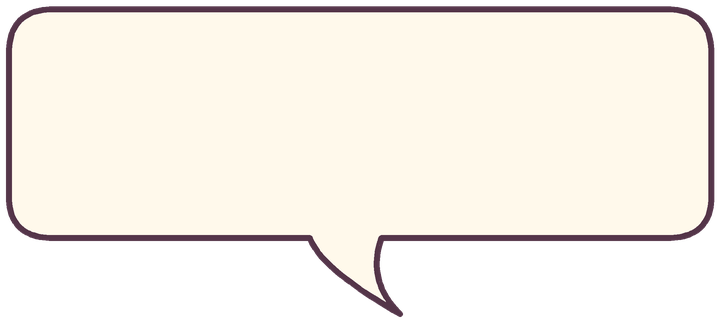
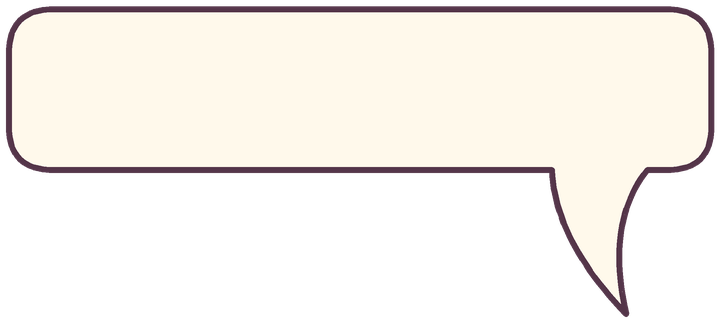
Follow the academy path with alternating kitten poses and clear speech balloons

Changed region(s): [[0.0, 0.4062, 1.0, 1.0]]

diff --git a/assets/reader-calcolo-letterale.css b/assets/reader-calcolo-letterale.css
@@ -69,31 +69,44 @@
  width:12%;
  transform:scaleX(-1);
 }
+.cl-walker {
+ position:absolute;
+ width:22%;
+ aspect-ratio:1;
+ transform-origin:center bottom;
+}
+.cl-walker img {
+ inset:0;
+ width:100%;
+ height:100%;
+ object-fit:contain;
+ object-position:center bottom;
+}
 .cl-red {
- --walk-x:10cqw;
- --walk-y:-20cqw;
  left:11%;
  bottom:8%;
- width:22%;
+ --bend-x:-3.5cqw;
+ --approach-x:5cqw;
+ --gait-offset:0s;
 }
 .cl-bjorne {
- --walk-x:-1cqw;
- --walk-y:-19cqw;
  left:34%;
  bottom:6%;
- width:22%;
+ --bend-x:-17.5cqw;
+ --approach-x:-12.5cqw;
+ --gait-offset:-.2s;
 }
-.cl-festival.cl-heard .cl-red,
-.cl-festival.cl-heard .cl-bjorne {
- animation:cl-walk-in .65s ease-out both;
+.cl-walker .cl-step-side {
+ opacity:0;
 }
-.cl-festival.cl-approached .cl-red,
-.cl-festival.cl-approached .cl-bjorne {
- animation:cl-approach 1.55s ease-in-out both;
+.cl-approached .cl-walker {
+ animation:cl-approach 2.35s ease-in-out both;
 }
-.cl-red,
-.cl-bjorne {
- transform-origin:center bottom;
+.cl-approached .cl-step-side {
+ animation:cl-footfall .4s steps(1) var(--gait-offset) infinite,cl-turn 2.35s steps(1) both;
+}
+.cl-approached .cl-step-rear {
+ animation:cl-footfall .4s steps(1) calc(var(--gait-offset) - .2s) infinite;
 }
 .cl-booth .cl-sibilla {
  left:24%;
@@ -134,7 +147,7 @@
  top:var(--speaker-y);
  left:var(--speaker-x);
  isolation:isolate;
- transform:translate(calc(0% - var(--tail-x)),-134%);
+ transform:translate(calc(0% - var(--tail-x)),calc(0% - var(--balloon-height,136%)));
  width:max-content;
  min-width:min(9.5em,42%);
  max-width:49%;
@@ -151,7 +164,7 @@
  position:absolute;
  inset:0 0 auto;
  z-index:-1;
- height:136%;
+ height:var(--balloon-height,136%);
  background:var(--balloon-art) center / 100% 100% no-repeat;
 }
 .cl-speaker-name {
@@ -163,28 +176,30 @@
  white-space:nowrap;
 }
 .cl-festival .cl-balloon[data-speaker="sibilla"] {
- --balloon-art:url('images/reader/sibilla-festival/balloon-sibilla-viale.png');
- --tail-x:55.6%;
- --speaker-x:35.8%;
+ --balloon-art:url('images/reader/sibilla-festival/balloon-sibilla-viale.png?v=2');
+ --balloon-height:190%;
+ --tail-x:87%;
+ --speaker-x:35.7%;
  --speaker-y:50%;
+ max-width:36%;
 }
 .cl-festival .cl-balloon[data-speaker="red"] {
  --balloon-art:url('images/reader/sibilla-festival/balloon-red.png');
  --tail-x:36.1%;
- --speaker-x:31%;
- --speaker-y:71%;
+ --speaker-x:27%;
+ --speaker-y:64%;
 }
 .cl-festival .cl-balloon[data-speaker="bjorne"] {
  --balloon-art:url('images/reader/sibilla-festival/balloon-bjorne.png');
  --tail-x:60%;
- --speaker-x:54%;
- --speaker-y:73%;
+ --speaker-x:44.5%;
+ --speaker-y:66%;
 }
 .cl-booth .cl-balloon {
  --balloon-art:url('images/reader/sibilla-festival/balloon-sibilla-banco.png?v=2');
  --tail-x:1.95%;
- --speaker-x:54%;
- --speaker-y:42%;
+ --speaker-x:53%;
+ --speaker-y:41%;
  max-width:44%;
  padding-left:calc(9.6cqw + .76em);
 }
@@ -234,15 +249,19 @@ body[data-reader-lesson="calcolo-letterale-introduzione"] math {
 body[data-reader-lesson="calcolo-letterale-introduzione"] math[display="block"] {
  margin:14px 0;
 }
-@keyframes cl-walk-in {
- from {transform:translate(-28%,12%);}
- 45% {transform:translate(-13%,0) rotate(-3deg);}
- to {transform:translate(0,0);}
-}
 @keyframes cl-approach {
- 35% {transform:translate(calc(var(--walk-x)*.42),calc(var(--walk-y)*.32)) scale(.94) rotate(-2deg);}
- 68% {transform:translate(calc(var(--walk-x)*.78),calc(var(--walk-y)*.68)) scale(.86) rotate(2deg);}
- to {transform:translate(var(--walk-x),var(--walk-y)) scale(.76);}
+ 25% {transform:translate(calc(var(--bend-x)*.37),-9cqw) scale(.88);}
+ 53% {transform:translate(var(--bend-x),-19cqw) scale(.67);}
+ 76% {transform:translate(calc(var(--bend-x) + 1.5cqw),-24cqw) scale(.51);}
+ to {transform:translate(var(--approach-x),-28cqw) scale(.39);}
+}
+@keyframes cl-footfall {
+ 0%,100% {opacity:1;}
+ 50% {opacity:0;}
+}
+@keyframes cl-turn {
+ from {transform:scaleX(-1);}
+ 72%,to {transform:none;}
 }
 @keyframes cl-conjure {
  25% {transform:rotate(-4deg) translateY(-1%);}
@@ -263,8 +282,16 @@ body[data-reader-lesson="calcolo-letterale-introduzione"] math[display="block"] 
   grid-row:auto;
   margin-top:6px;
  }
- .cl-festival .cl-balloon {
+ .cl-festival .cl-balloon:not([data-speaker="sibilla"]) {
   max-width:58%;
+ }
+ .cl-festival .cl-balloon[data-speaker="sibilla"] {
+  --balloon-art:url('images/reader/sibilla-festival/balloon-bjorne.png');
+  --balloon-height:136%;
+  --tail-x:60%;
+  --speaker-y:45%;
+  max-width:52%;
+  font-size:clamp(.72rem,2.75cqw,1rem);
  }
  .cl-booth .cl-balloon {
   --speaker-x:50%;
@@ -274,6 +301,7 @@ body[data-reader-lesson="calcolo-letterale-introduzione"] math[display="block"] 
 }
 @media (prefers-reduced-motion: reduce) {
  .cl-scene img,
+ .cl-walker,
  .cl-orb-result {
   animation:none !important;
   transition:none !important;

diff --git a/assets/reader-calcolo-letterale.js b/assets/reader-calcolo-letterale.js
@@ -12,8 +12,14 @@
   <div role="img" aria-label="Red e Bjorne camminano lungo il viale verso il portone in fondo. Più avanti, sulla destra, Sibilla li chiama accanto all’Antro di Sibilla.">
    <img class="cl-backdrop" src="${art}viale-antro-sibilla.webp" alt="">
    <img class="cl-sibilla" src="${art}sibilla.webp" alt="">
-   <img class="cl-red" src="${art}red-verso-portone.webp" alt="">
-   <img class="cl-bjorne" src="${art}bjorne-verso-portone.webp" alt="">
+   <div class="cl-walker cl-red">
+    <img class="cl-step-side" src="${art}red-verso-portone.webp" alt="">
+    <img class="cl-step-rear" src="${art}red-passo-viale.webp" alt="">
+   </div>
+   <div class="cl-walker cl-bjorne">
+    <img class="cl-step-side" src="${art}bjorne-verso-portone.webp" alt="">
+    <img class="cl-step-rear" src="${art}bjorne-passo-viale.webp" alt="">
+   </div>
   </div>
  </div>`;
  const boothView=`<div class="cl-scene cl-booth">
@@ -101,7 +107,7 @@
    const image=document.createElement('img');
    image.hidden=true;
    image.alt='';
-   image.src=`${art}balloon-${name}.png${name==='sibilla-banco'?'?v=2':''}`;
+   image.src=`${art}balloon-${name}.png${name==='sibilla-banco'?'?v=2':name==='sibilla-viale'?'?v=2':''}`;
    root.append(image);
   }
   const state=gameState.intro;
@@ -110,7 +116,6 @@
    const line=introLines[state.beat];
    balloon.hidden=!line;
    if(line)say(...line);
-   scene.classList.toggle('cl-heard',state.beat>=0);
    scene.classList.toggle('cl-approached',state.beat>=introLines.length);
    button.textContent=state.beat===-1?'Avvia il fumetto':state.beat===introLines.length-1?'Avviciniamoci':state.beat>=introLines.length?'Vai alla prima sfida':'Continua';
    button.hidden=state.beat>=introLines.length&&!onNext;
@@ -123,7 +128,7 @@
    if(state.beat>=introLines.length&&onNext){
     button.disabled=true;
     const reduced=matchMedia('(prefers-reduced-motion: reduce)').matches;
-    timer=setTimeout(onNext,reduced?0:1650);
+    timer=setTimeout(onNext,reduced?0:2450);
    }
   };
   return ()=>clearTimeout(timer);

diff --git a/reader.html b/reader.html
@@ -57,8 +57,8 @@
 <script src="assets/fraction-copilot.js?v=6" defer></script>
 <script src="assets/reader-rational-boards.js?v=12" defer></script>
 <script src="assets/reader-division-intro.js?v=8" defer></script>
-<link rel="stylesheet" href="assets/reader-calcolo-letterale.css?v=6">
-<script src="assets/reader-calcolo-letterale.js?v=6" defer></script>
+<link rel="stylesheet" href="assets/reader-calcolo-letterale.css?v=7">
+<script src="assets/reader-calcolo-letterale.js?v=7" defer></script>
 <script src="assets/reader.js?v=108" defer></script>
 <script src="assets/reader-typography.js?v=1" defer></script>
 
